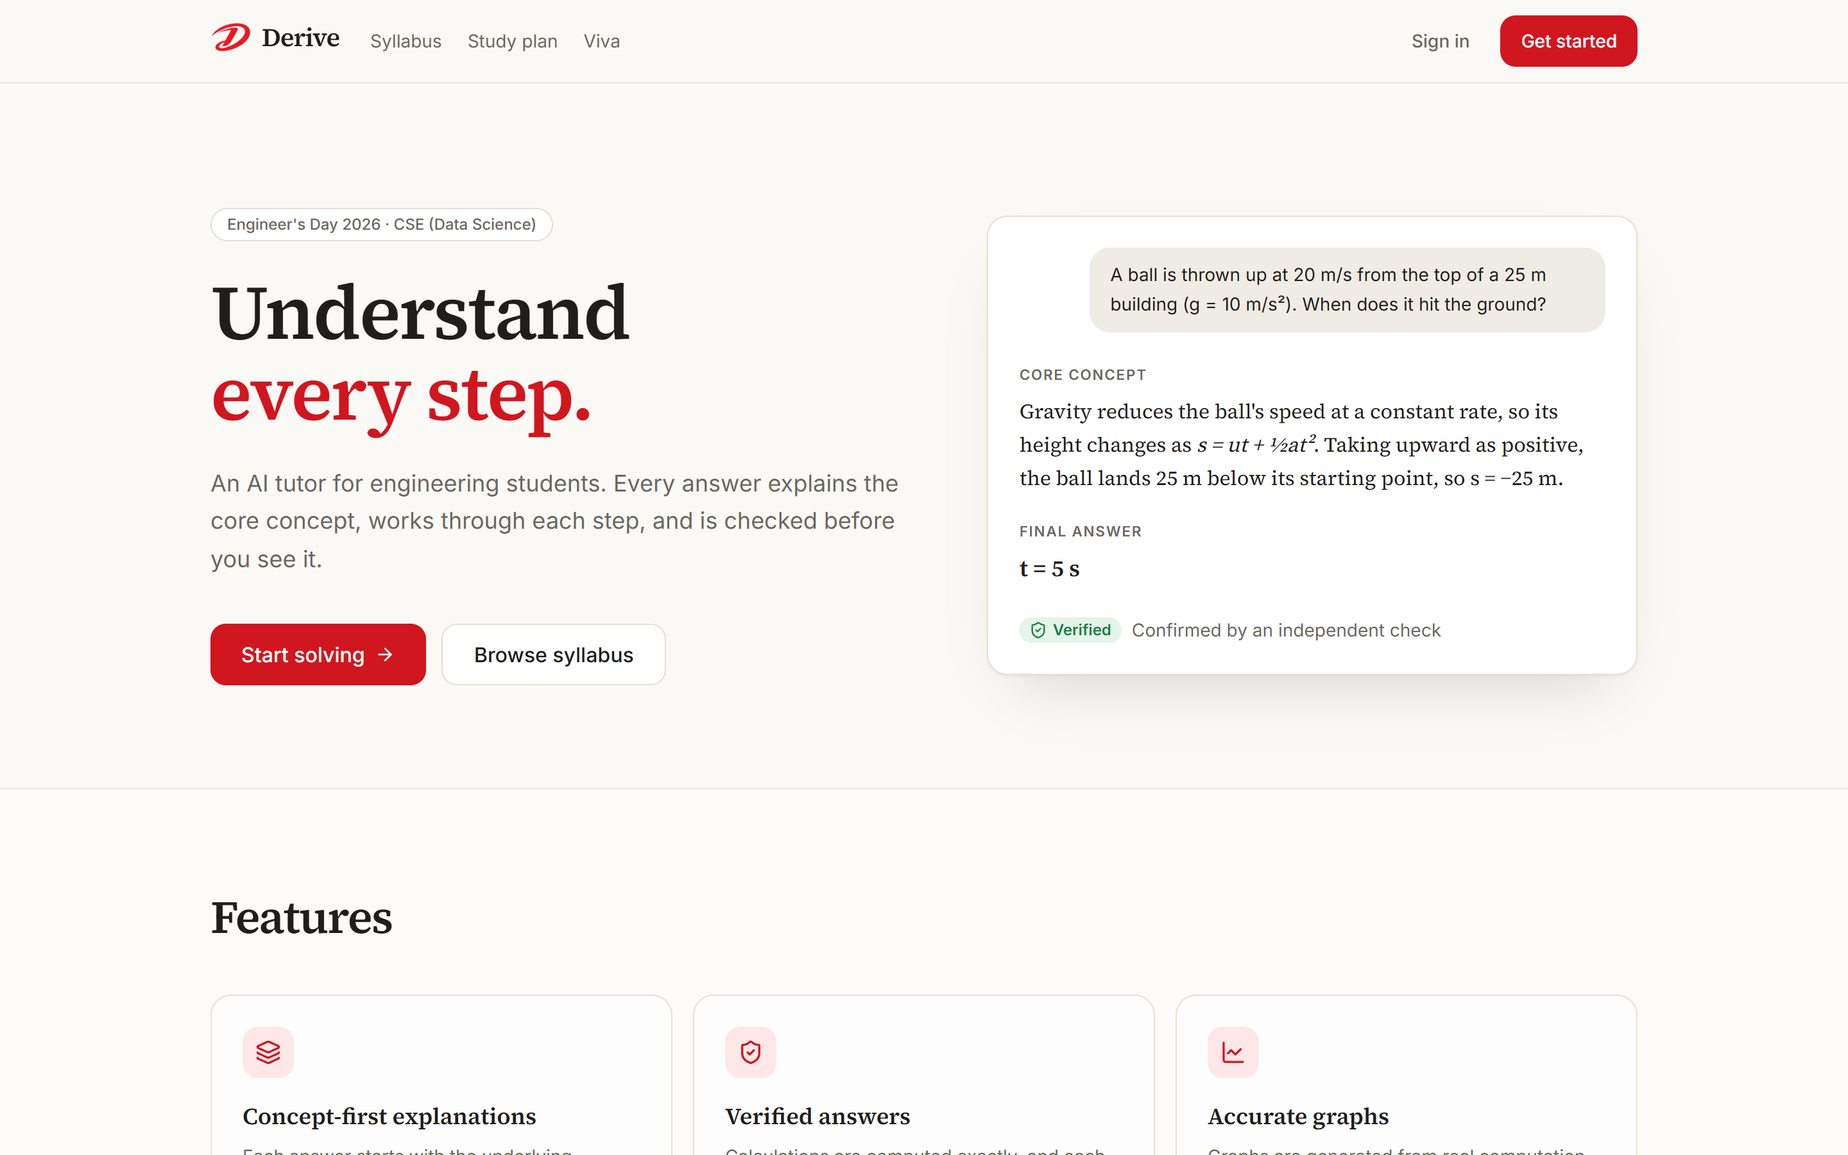
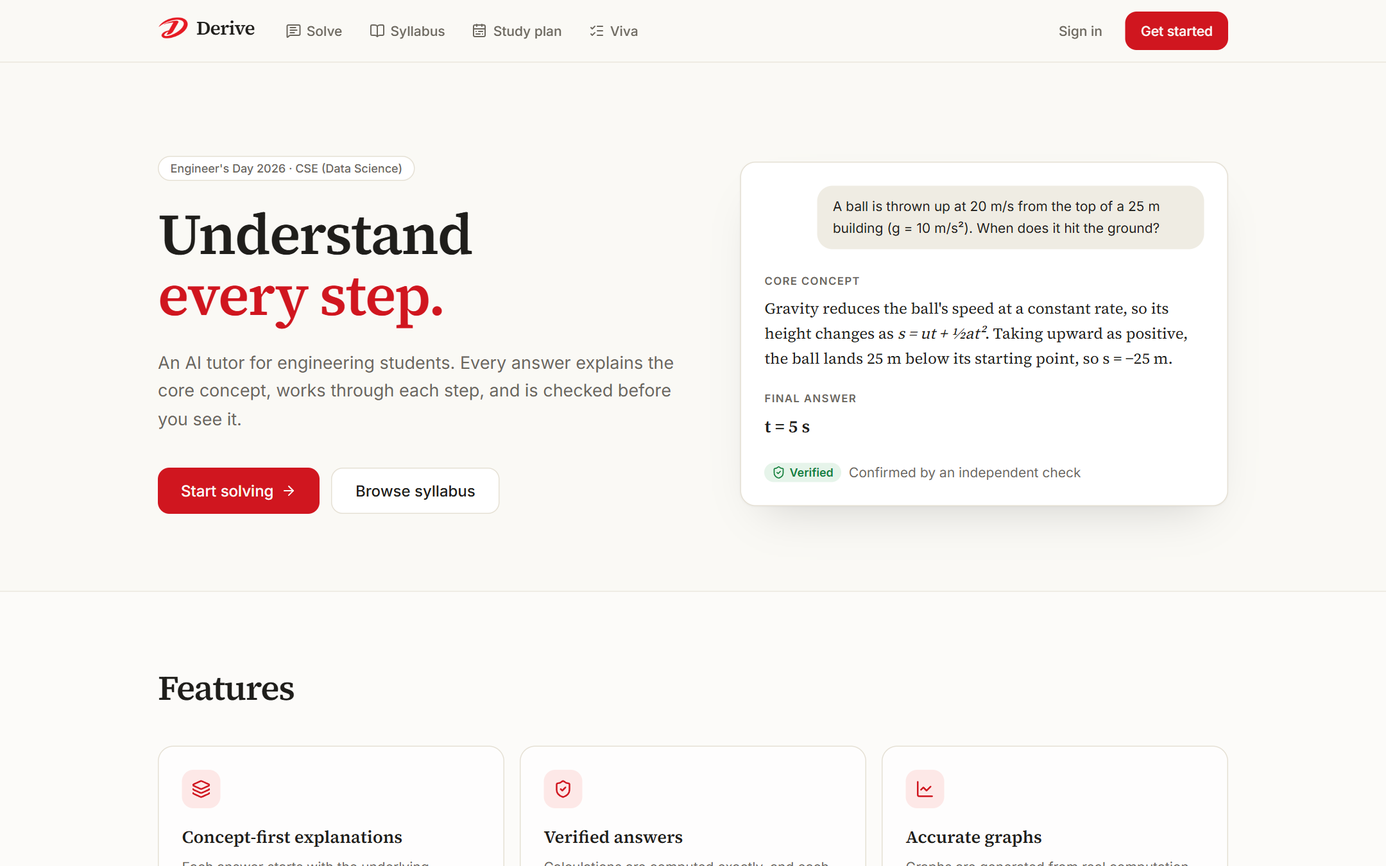
Redesign the README with current screenshots
- Add badges, a feature overview, screenshots of the current app,
  diagrams of how answers and figures are made, a tour of the code and
  the deployment setup

diff --git a/README.md b/README.md
@@ -1,120 +1,159 @@
+<div align="center">
+
+<img src="public/brand/derive-mark.png" alt="Derive" width="88" />
+
 # Derive
 
-**Understand every step.**
+### Understand every step.
 
-Derive is an AI tutor for engineering students. Ask a question in maths, physics, electrical, programming or data science, typed or as a photo, and get a structured explanation: the core concept and where it comes from, a step-by-step solution linked to that concept, and a final answer that is computed exactly and verified independently.
+An AI tutor for engineering students that explains the concept behind every answer, works through each step, draws graphs and circuits with real code, and checks the result independently before you see it.
 
-Live at **[deriveai.online](https://deriveai.online)**. Built by Daniyal Sadique (first-year B.Tech CSE, Data Science) for **Engineer's Day 2026**.
+[![Live site](https://img.shields.io/badge/live-deriveai.online-d0161f?style=for-the-badge)](https://deriveai.online)
+[![CI](https://img.shields.io/github/actions/workflow/status/daniyalsadique9-commits/derive/ci.yml?branch=main&style=for-the-badge&label=CI)](https://github.com/daniyalsadique9-commits/derive/actions/workflows/ci.yml)
+[![License: MIT](https://img.shields.io/badge/license-MIT-2ea44f?style=for-the-badge)](LICENSE)
 
-![Derive answering a physics question](docs/screenshots/answer.png)
+![Next.js](https://img.shields.io/badge/Next.js_16-000000?style=flat-square&logo=nextdotjs&logoColor=white)
+![React](https://img.shields.io/badge/React_19-20232a?style=flat-square&logo=react&logoColor=61DAFB)
+![TypeScript](https://img.shields.io/badge/TypeScript-3178C6?style=flat-square&logo=typescript&logoColor=white)
+![Tailwind CSS](https://img.shields.io/badge/Tailwind_CSS_4-06B6D4?style=flat-square&logo=tailwindcss&logoColor=white)
+![Clerk](https://img.shields.io/badge/Clerk-6C47FF?style=flat-square&logo=clerk&logoColor=white)
+![Cloudflare](https://img.shields.io/badge/Cloudflare_Tunnel-F38020?style=flat-square&logo=cloudflare&logoColor=white)
+
+**[Live site](https://deriveai.online)** · **[Features](#features)** · **[How it works](#how-it-works)** · **[Code tour](#a-tour-of-the-code)** · **[Run it locally](#run-it-locally)**
+
+<br />
+
+<img src="docs/screenshots/answer.png" alt="Derive answering a physics question step by step" width="92%" />
+
+<sub>Built by <b>Daniyal Sadique</b>, first-year B.Tech CSE (Data Science), for <b>Engineer's Day 2026</b>.</sub>
+
+</div>
+
+<br />
+
+## Why Derive
+
+Most AI answers give a result and move on. First-year engineering students need the reason behind it: where a formula comes from, why each step follows, and how to check the answer by hand. Derive answers every question in the same teaching structure, computes numbers with code instead of guessing them, and has a second model re-solve the question before the answer is marked **Verified**.
 
 ## Features
 
-- **Concept-first answers.** Every answer follows the same structure: Question, Prerequisites, Core concept, Solution, Final answer, Verification, Common mistakes, Related concepts and a concept map.
-- **Verified answers.** Calculations run in a code sandbox, and a second model solves the question independently. Matching results are marked _Verified_; a result is flagged for review only when a second checker also disagrees.
-- **Accurate graphs.** Plotted by running matplotlib, not drawn by the model. Only the final graph is shown, just before the final answer.
-- **Circuit diagrams drawn by code.** Simple circuits are drawn with standard symbols from a description of their parts. Well-known devices (a laptop battery pack, a laptop, a charger or SMPS, a UPS or inverter, and a regulated power supply) use checked diagrams built into the app, so the model only writes the explanation.
-- **Photo and PDF questions.** Handwritten problems, textbook figures, circuit diagrams and question papers.
-- **Maths in questions.** LaTeX such as `\frac{a}{b}` in a question is rendered as real notation.
-- **Explanation styles.** Intuitive, Formal or Analogy.
-- **Simple English or Hinglish.** Plain English by default; Hinglish on request, with technical terms, formulas and headings kept in English.
-- **Follow-up actions.** Go deeper, Simplify, Practice (similar, harder and trick versions), Other methods (with a comparison table) and Explain back (active recall with feedback).
-- **Answers in the background.** An answer keeps coming in while you visit other pages, with a marker in the navigation bar until it is ready.
-- **History.** Searchable by title or subject, with bookmarks.
-- **Syllabus browser.** The official B.Tech Semester I (Group A) syllabus: every course with its code, credits, units and topics, linked to the right page of the PDF.
-- **Study plans.** A personalised week-by-week roadmap built only from the syllabus, based on each student's confidence per course, time available, goal and recent questions. Every task is tagged with its course and unit.
-- **Viva practice.** Likely viva questions for any course in the syllabus.
-- **Admin panel.** Maintenance mode, feature switches, per-student and daily limits, blocking, and live usage and capacity. Open only to the addresses in `ADMIN_EMAILS`, behind a separate username and password.
-- **Accounts.** Sign-in with Clerk. The solver and its APIs are available only to signed-in users.
+<table>
+<tr>
+<td width="50%" valign="top">
 
-## How answers are verified
+### Answers that teach
 
-Language models can sound confident and still be wrong, especially late in a long conversation. Derive guards against this at every stage:
+- **Concept first.** Question, Prerequisites, Core concept, Solution, Final answer, Verification, Common mistakes and Related concepts, every time.
+- **Verified.** Numbers are computed in a Python sandbox, and a model from a different family solves the question again. A result is flagged only when a second checker also disagrees.
+- **Three styles.** Intuitive, Formal or Real-world analogy.
+- **Simple English or Hinglish.** Technical terms, formulas and headings stay in English.
+- **Follow-ups in one click.** Go deeper, Simplify, Practice (similar, harder and trick), Other methods, and Explain back with feedback.
 
-```mermaid
-flowchart LR
-  S["Student"] -->|question or photo| APP["Next.js app"]
-  APP -->|signed-in request| API["/api/solve"]
-  API --> ROUTER{"Router"}
-  ROUTER -->|text| GROQ["Solver: gpt-oss-120b on Groq<br/>reasoning + code execution"]
-  ROUTER -->|photo or graph| GEMINI["Gemini Flash<br/>vision + matplotlib"]
-  GROQ -. at capacity .-> GEMINI
-  GEMINI -. at capacity .-> GROQ
-  GROQ --> CHECK["Verifier: Qwen on Groq<br/>solves independently"]
-  GEMINI --> CHECK
-  CHECK -->|Verified or Needs review| APP
-  QUOTA[("Quota tracker")] --- ROUTER
-```
+</td>
+<td width="50%" valign="top">
 
-1. **Reasoning.** A reasoning model works through the problem before writing, under strict rules: exactly one final answer, stated assumptions, and no agreeing with an incorrect claim.
-2. **Exact computation.** Numerical results are calculated by code rather than predicted token by token.
-3. **Independent check.** A model from a different family solves the question from scratch and compares final answers. Only numeric results are checked, and a disagreement is confirmed by a second checker before the answer is flagged.
-4. **Short context.** Only recent turns are sent, and each new question starts a fresh thread, which keeps models from contradicting themselves over long chats.
+### Diagrams drawn by code
+
+- **Graphs** are plotted with matplotlib, never drawn by the model, and only the final graph is shown.
+- **Circuits** are drawn with standard symbols by the app's own SVG renderer, from a list of parts.
+- **Device diagrams** for a laptop battery pack, a laptop, a charger or SMPS, a UPS or inverter, and a regulated power supply are checked drawings built into the app; the model writes only the explanation.
+- **Concept maps** in the app's colours, and every figure opens full screen.
+
+</td>
+</tr>
+<tr>
+<td width="50%" valign="top">
+
+### Built around the syllabus
+
+- **Syllabus browser.** All ten Semester 1 (Group A) courses with codes, credits, units, topics and hours, linked to the right page of the official PDF.
+- **Study plans.** A week-by-week plan from the syllabus only, based on your confidence in each course, the time you have and your goal. Every task names its course and unit.
+- **Viva practice.** Likely viva questions for any course or lab, with a formula sheet and model answers.
+
+</td>
+<td width="50%" valign="top">
+
+### Made for real use
+
+- **Photos and PDFs.** Handwritten problems, textbook figures, circuit diagrams and question papers.
+- **Keeps working in the background.** Move to another page and the answer keeps arriving.
+- **History** with search and bookmarks, stored in your own browser.
+- **Light and dark themes**, on desktop and phone.
+- **Admin panel** with maintenance mode, feature switches, limits and live capacity, behind a separate username and password.
+
+</td>
+</tr>
+</table>
 
 ## Screenshots
 
-| Landing page                                  | Mobile                                        |
-| --------------------------------------------- | --------------------------------------------- |
-| ![Landing page](docs/screenshots/landing.png) | ![Mobile solver](docs/screenshots/mobile.png) |
+<table>
+<tr>
+<td width="50%"><img src="docs/screenshots/schematic.png" alt="Laptop battery pack circuit drawn by the app" /><br /><sub><b>Checked circuit diagram.</b> A laptop battery pack with per-cell sensing, back-to-back MOSFETs and the system power rail, drawn by the app.</sub></td>
+<td width="50%"><img src="docs/screenshots/syllabus.png" alt="Syllabus browser" /><br /><sub><b>Syllabus browser.</b> Every course, unit and topic, searchable, with teaching hours per unit.</sub></td>
+</tr>
+<tr>
+<td width="50%"><img src="docs/screenshots/landing.png" alt="Landing page in the light theme" /><br /><sub><b>Landing page</b>, light theme.</sub></td>
+<td width="50%"><img src="docs/screenshots/landing-dark.png" alt="Landing page in the dark theme" /><br /><sub><b>Landing page</b>, dark theme.</sub></td>
+</tr>
+</table>
 
-## Tech stack
+<p align="center"><img src="docs/screenshots/mobile.png" alt="Derive on a phone" width="300" /><br /><sub><b>On a phone.</b></sub></p>
 
-| Layer          | Choice                                                                    |
-| -------------- | ------------------------------------------------------------------------- |
-| Framework      | Next.js 16 (App Router), React 19, TypeScript                             |
-| Styling        | Tailwind CSS 4, Typography plugin, Inter, Source Serif 4                  |
-| Auth           | Clerk                                                                     |
-| Solver         | Groq `openai/gpt-oss-120b` with built-in code execution                   |
-| Verifier       | Groq `qwen/qwen3.8-27b`, with fallbacks to other models                   |
-| Vision, graphs | Google Gemini Flash with code execution (matplotlib)                      |
-| Rendering      | react-markdown, KaTeX for maths, Mermaid for block diagrams, SVG circuits |
-| Validation     | Zod                                                                       |
+## How it works
 
-## Getting started
+### Answering and verifying
 
-**Prerequisites:** Node.js 20+ and API keys from [Google AI Studio](https://aistudio.google.com/apikey) and [Groq](https://console.groq.com/keys).
-
-```bash
-git clone https://github.com/daniyalsadique9-commits/derive.git
-cd derive
-npm install
-cp .env.example .env.local                 # add your API keys
-npx clerk@latest init --accountless -y     # development auth keys, no account needed
-npm run dev
+```mermaid
+flowchart LR
+  S["Student"] -->|question, photo or PDF| API["/api/solve<br/>signed-in only"]
+  API --> R{"Router"}
+  R -->|typed question| G["gpt-oss-120b on Groq<br/>reasoning + Python"]
+  R -->|photo, PDF or graph| M["Gemini Flash<br/>vision + matplotlib"]
+  G -. busy or slow .-> M
+  M -. busy or slow .-> G
+  G --> C["Independent check<br/>Qwen solves it again"]
+  M --> C
+  C -->|Verified or Needs review| S
 ```
 
-Open http://localhost:3000.
+1. **Reasoning.** A reasoning model works through the problem before writing, under strict rules: one final answer, stated assumptions, and no agreeing with a wrong claim.
+2. **Exact computation.** Numbers come from code, not from predicting digits.
+3. **Independent check.** A model from another family solves the question from scratch. Only numeric results are checked, and a disagreement must be confirmed by a second checker.
+4. **Fallback.** If a model is busy, slow to start or out of quota, the next one takes over across keys and providers, and answers stream as they are written.
 
-Before a demo, run `npm run smoke`. It answers two real questions and prints timings, verification results and remaining quota, confirming that every model is reachable.
+### Drawing diagrams
 
-### Environment variables
+```mermaid
+flowchart LR
+  Q["Question asks<br/>for a picture"] --> K{"What kind?"}
+  K -->|graph| P["matplotlib plots it"]
+  K -->|simple circuit| L["Model lists the parts"] --> D["App draws it with<br/>standard symbols"]
+  K -->|known device| X["App adds its checked diagram;<br/>the model only explains"]
+  K -->|concept map| MM["Mermaid, in the<br/>app's colours"]
+```
 
-| Variable                           | Purpose                                                              |
-| ---------------------------------- | -------------------------------------------------------------------- |
-| `GROQ_API_KEYS`                    | Comma-separated Groq keys. Keys from different accounts add quota.   |
-| `GEMINI_API_KEYS`                  | Comma-separated Gemini keys. Keys from different projects add quota. |
-| `CLERK_*`, `NEXT_PUBLIC_CLERK_*`   | Authentication, written by `clerk init` in development.              |
-| `CLERK_JWT_KEY`                    | Optional. Verifies sessions without a network call.                  |
-| `GEMINI_RPM`, `GEMINI_RPD`         | Optional. Your Gemini limits, from AI Studio's rate-limit page.      |
-| `ADMIN_EMAILS`                     | Comma-separated sign-in emails that can open the admin panel.        |
-| `ADMIN_USERNAME`, `ADMIN_PASSWORD` | The second sign-in step for the admin panel.                         |
+Language models draw diagrams unreliably, so Derive never shows diagram source: whatever the model writes is either drawn by code or removed before it reaches the student.
 
-See [`.env.example`](.env.example) for every option.
+## A tour of the code
 
-## Scripts
+| Where                                                                                      | What it does                                                            |
+| ------------------------------------------------------------------------------------------ | ----------------------------------------------------------------------- |
+| [`src/lib/ai/solve.ts`](src/lib/ai/solve.ts)                                               | Picks the models for a question and runs the independent check          |
+| [`src/lib/ai/fallback.ts`](src/lib/ai/fallback.ts)                                         | Streams the first model that responds, with timeouts and quota tracking |
+| [`src/lib/ai/verify.ts`](src/lib/ai/verify.ts)                                             | Second-model checking, with a confirming checker before flagging        |
+| [`src/lib/ai/prompts.ts`](src/lib/ai/prompts.ts)                                           | The teaching structure and rules every answer follows                   |
+| [`src/lib/ai/device-diagrams.ts`](src/lib/ai/device-diagrams.ts)                           | Checked device diagrams, and the filter that removes model-drawn ones   |
+| [`src/components/markdown/CircuitDiagram.tsx`](src/components/markdown/CircuitDiagram.tsx) | SVG circuit renderer with standard symbols                              |
+| [`src/components/markdown/schematics/`](src/components/markdown/schematics/)               | Hand-laid schematics, such as the laptop battery pack                   |
+| [`src/app/api/solve/route.ts`](src/app/api/solve/route.ts)                                 | Streaming answer endpoint (NDJSON with a heartbeat)                     |
+| [`src/lib/client/solver-session.ts`](src/lib/client/solver-session.ts)                     | Keeps an answer streaming while you browse other pages                  |
+| [`src/lib/ai/plan.ts`](src/lib/ai/plan.ts), [`src/lib/ai/viva.ts`](src/lib/ai/viva.ts)     | Study plans and viva questions built from the syllabus                  |
+| [`src/lib/server/admin-session.ts`](src/lib/server/admin-session.ts)                       | Signed admin sessions with a lockout after failed attempts              |
+| [`src/data/syllabus.ts`](src/data/syllabus.ts)                                             | The official Semester 1 syllabus as data                                |
 
-| Command             | Description                               |
-| ------------------- | ----------------------------------------- |
-| `npm run dev`       | Start the development server              |
-| `npm run build`     | Production build                          |
-| `npm run lint`      | ESLint                                    |
-| `npm run typecheck` | TypeScript, no emit                       |
-| `npm run format`    | Prettier with Tailwind class sorting      |
-| `npm run smoke`     | End-to-end check against the real AI APIs |
-
-Every push to `main` runs the type check and lint on GitHub Actions.
-
-## Project structure
+<details>
+<summary><b>Full project structure</b></summary>
 
 ```
 src/
@@ -144,21 +183,92 @@ src/
 scripts/smoke.mts         End-to-end pipeline check
 ```
 
-## Security and privacy
+</details>
 
-- API keys live only on the server (`.env.local`, git-ignored) and are never sent to the browser.
-- `/solve` requires sign-in; `/api/solve` and `/api/status` reject anonymous requests with `401`.
-- Each user is rate-limited so one visitor cannot exhaust the shared quota.
-- History is stored in the user's own browser. Uploaded photos are not stored, and questions are not logged on the server; the admin panel shows counts only.
-- The admin panel needs an administrator's sign-in and a separate username and password, and locks after repeated failed attempts.
-- AI providers may use prompts to improve their models, so avoid uploading personal information.
+## Tech stack
+
+| Layer          | Choice                                                                    |
+| -------------- | ------------------------------------------------------------------------- |
+| Framework      | Next.js 16 (App Router), React 19, TypeScript                             |
+| Styling        | Tailwind CSS 4, Typography plugin, Inter, Source Serif 4                  |
+| Auth           | Clerk                                                                     |
+| Solver         | Groq `openai/gpt-oss-120b` with built-in code execution                   |
+| Verifier       | Groq `qwen/qwen3.8-27b`, with fallbacks to other models                   |
+| Vision, graphs | Google Gemini Flash with code execution (matplotlib)                      |
+| Rendering      | react-markdown, KaTeX for maths, Mermaid for block diagrams, SVG circuits |
+| Validation     | Zod                                                                       |
+| Hosting        | Ubuntu server, systemd, Cloudflare Tunnel                                 |
+
+## Run it locally
+
+**You need** Node.js 20 or newer, and API keys from [Google AI Studio](https://aistudio.google.com/apikey) and [Groq](https://console.groq.com/keys).
+
+```bash
+git clone https://github.com/daniyalsadique9-commits/derive.git
+cd derive
+npm install
+cp .env.example .env.local                 # add your API keys
+npx clerk@latest init --accountless -y     # development sign-in keys, no account needed
+npm run dev
+```
+
+Open http://localhost:3000. Before a demo, `npm run smoke` answers two real questions and prints timings, verification results and remaining quota.
+
+<details>
+<summary><b>Environment variables</b></summary>
+
+| Variable                           | Purpose                                                              |
+| ---------------------------------- | -------------------------------------------------------------------- |
+| `GROQ_API_KEYS`                    | Comma-separated Groq keys. Keys from different accounts add quota.   |
+| `GEMINI_API_KEYS`                  | Comma-separated Gemini keys. Keys from different projects add quota. |
+| `CLERK_*`, `NEXT_PUBLIC_CLERK_*`   | Sign-in, written by `clerk init` in development.                     |
+| `CLERK_JWT_KEY`                    | Optional. Verifies sessions without a network call.                  |
+| `GEMINI_RPM`, `GEMINI_RPD`         | Optional. Your Gemini limits, from AI Studio's rate-limit page.      |
+| `ADMIN_EMAILS`                     | Comma-separated sign-in emails that can open the admin panel.        |
+| `ADMIN_USERNAME`, `ADMIN_PASSWORD` | The second sign-in step for the admin panel.                         |
+
+See [`.env.example`](.env.example) for every option.
+
+</details>
+
+<details>
+<summary><b>Scripts</b></summary>
+
+| Command             | Description                               |
+| ------------------- | ----------------------------------------- |
+| `npm run dev`       | Start the development server              |
+| `npm run build`     | Production build                          |
+| `npm run lint`      | ESLint                                    |
+| `npm run typecheck` | TypeScript, no emit                       |
+| `npm run format`    | Prettier with Tailwind class sorting      |
+| `npm run smoke`     | End-to-end check against the real AI APIs |
+
+Every push to `main` runs the type check and lint on GitHub Actions.
+
+</details>
 
 ## Deployment
 
-deriveai.online runs on a small Ubuntu server: `npm run build` and `npm start` under systemd, reached through a Cloudflare Tunnel, so no ports are open to the internet. Daily usage counts are saved to `.data/usage.json` and survive restarts.
+```mermaid
+flowchart LR
+  B["Browser"] -->|HTTPS| CF["Cloudflare"]
+  CF -->|tunnel, no open ports| T["cloudflared"]
+  T --> N["Next.js server<br/>systemd on Ubuntu"]
+```
 
-The app also deploys to Vercel as-is: add the environment variables in the project settings and create a production Clerk instance with `npx clerk@latest deploy`. Quota tracking is in memory, which is exact on a single server and best-effort on serverless hosting; provider fallback still handles rate-limit errors.
+deriveai.online runs on a small Ubuntu server with `npm run build` and `npm start` under systemd, reached through a Cloudflare Tunnel, so no ports are open to the internet. Daily usage counts are saved to `.data/usage.json` and survive restarts.
+
+The app also deploys to Vercel as-is: add the environment variables in the project settings and create a production Clerk instance with `npx clerk@latest deploy`.
+
+## Security and privacy
+
+- API keys live only on the server (`.env.local`, git-ignored) and never reach the browser.
+- `/solve` and every API require sign-in; anonymous requests get `401`.
+- Each student is rate-limited, so one person cannot use up the shared quota.
+- Questions are not logged on the server. History stays in the student's own browser, and uploaded photos are not stored.
+- The admin panel needs an administrator's sign-in plus a separate username and password, and locks after repeated failed attempts.
+- AI providers may use prompts to improve their models, so avoid uploading personal information.
 
 ## License
 
-[MIT](LICENSE)
+[MIT](LICENSE) © 2026 Daniyal Sadique
